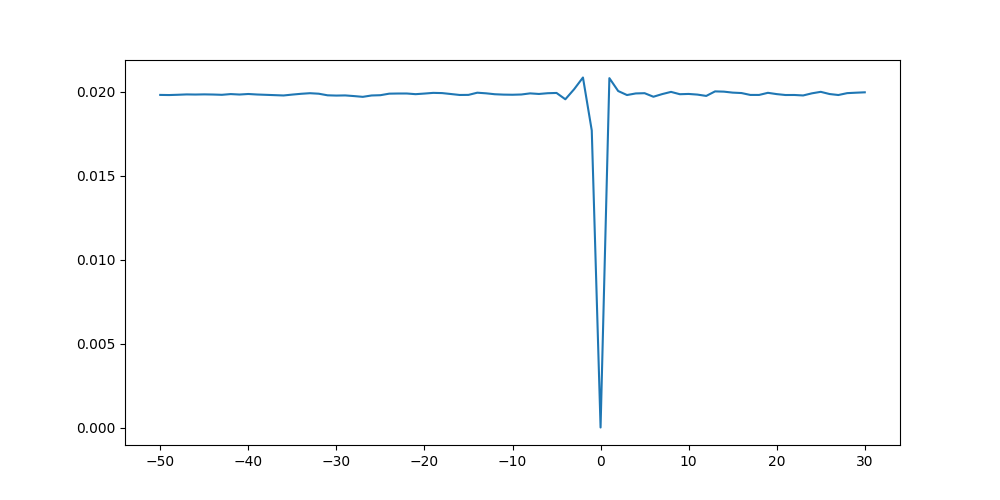
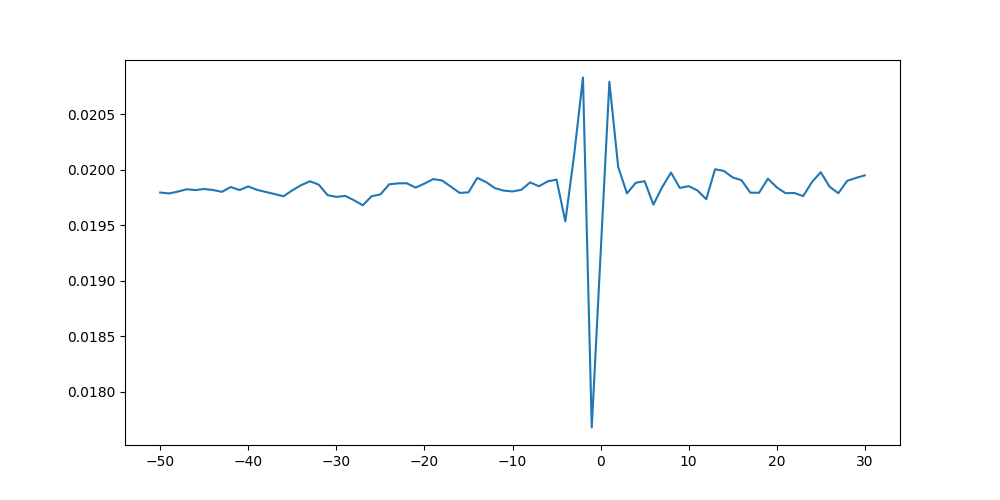
Plotting based on tetranucleotides

diff --git a/The_sequences_analysis_project/main.py b/The_sequences_analysis_project/main.py
@@ -2,7 +2,6 @@ import requests
 import random
 import pandas as pd
 import matplotlib.pyplot as plt
-from collections import defaultdict
 
 
 def parsing(url: str):
@@ -85,7 +84,7 @@ def calculate_data_dinucleotide_property_database(sequences_file):
     print(df.head(7))
 
     properties = ['stacking_energy', 'mobility', 'roll', 'slide', 'slide_stiffness', 'roll_stiffness']
-    dictionaries = {prop: {i: 0 for i in range(-50, 31)} for prop in properties}
+    dictionaries = {prop: {i: 0 for i in range(-50, 31) if i != 0} for prop in properties}
 
     with open(sequences_file, 'r') as f:
         lines = f.readlines()
@@ -110,15 +109,39 @@ def calculate_data_dinucleotide_property_database(sequences_file):
         plt.savefig(f'graphics/{prop}.png')
 
 
+def calculate_data_tetranucleotide_property_database(sequences_file):
+    df = pd.read_csv('Table of tetranucleotides.csv', sep=';')
+    df.index.name = None
+    print(df.head(5))
 
+    dictionary_of_param = {i:0 for i in range(-50, 29) if i != 0}
 
+    with open(sequences_file, 'r') as f:
+        lines = f.readlines()
+        for line in lines:
+            n = -50
+            for tetranucleotide in range(len(line) - 4):
+                substring = line[tetranucleotide:tetranucleotide+4]
+                try:
+                    dictionary_of_param[n] += df.at[1, substring]
+                    n += 1 if n != -1 else 2
+                except KeyError:
+                    n += 1 if n != -1 else 2
 
+    for key in dictionary_of_param:
+        dictionary_of_param[key] /= 29598
+
+    plt.figure(figsize=(10, 5))
+    plt.plot(dictionary_of_param.keys(), dictionary_of_param.values())
+    plt.savefig(f'graphics/graphic_of_tetranucleotides.png')
 # req = parsing('https://epd.expasy.org/epd/wwwtmp/hg38_C2y3h.fa')
 #
 # with open('dirty_sequences.txt', 'w+') as f:
 #     f.write(req.text)
 
 clean_sequences('dirty_sequences.txt')
-# create_reverse_complementary_sequences('clean_sequences.txt')
-# create_random_sequences(29598)
+create_reverse_complementary_sequences('clean_sequences.txt')
+create_random_sequences(29598)
 calculate_data_dinucleotide_property_database('clean_sequences.txt')
+
+calculate_data_tetranucleotide_property_database('clean_sequences.txt')
